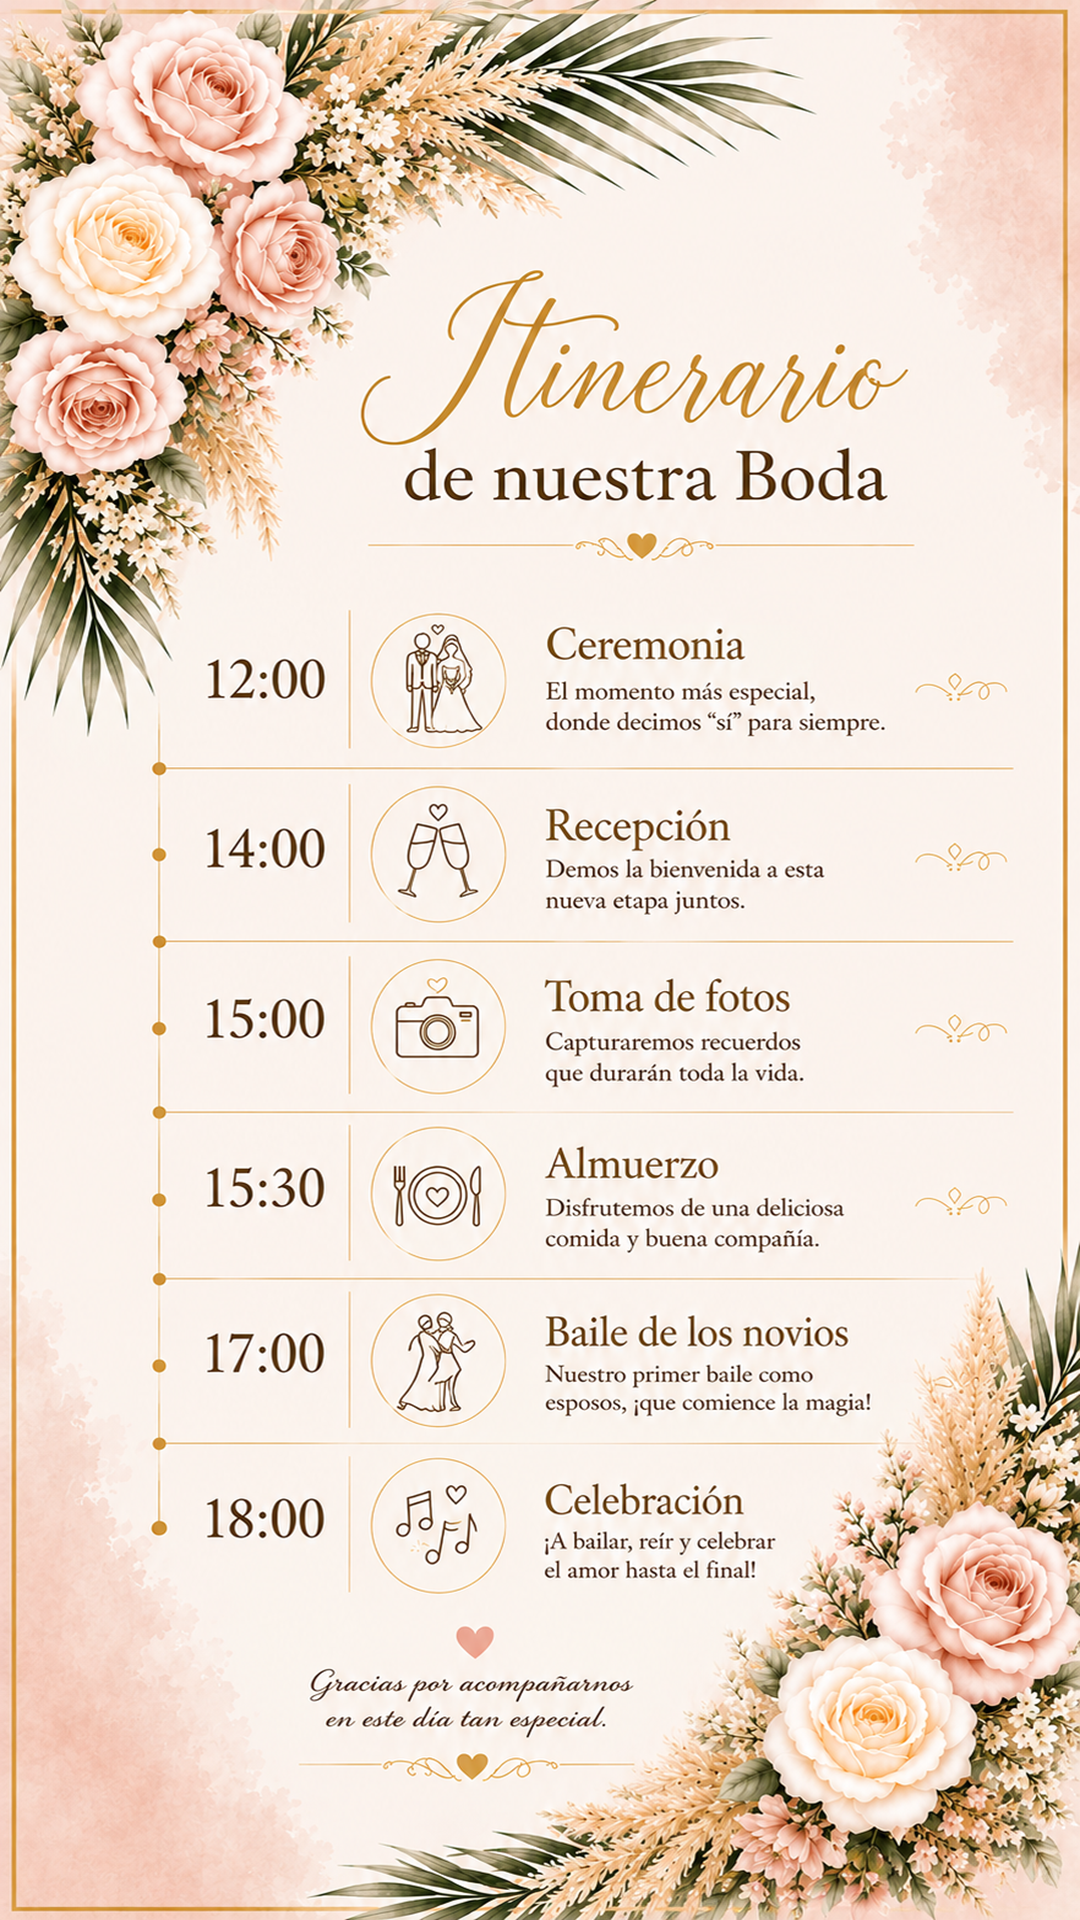
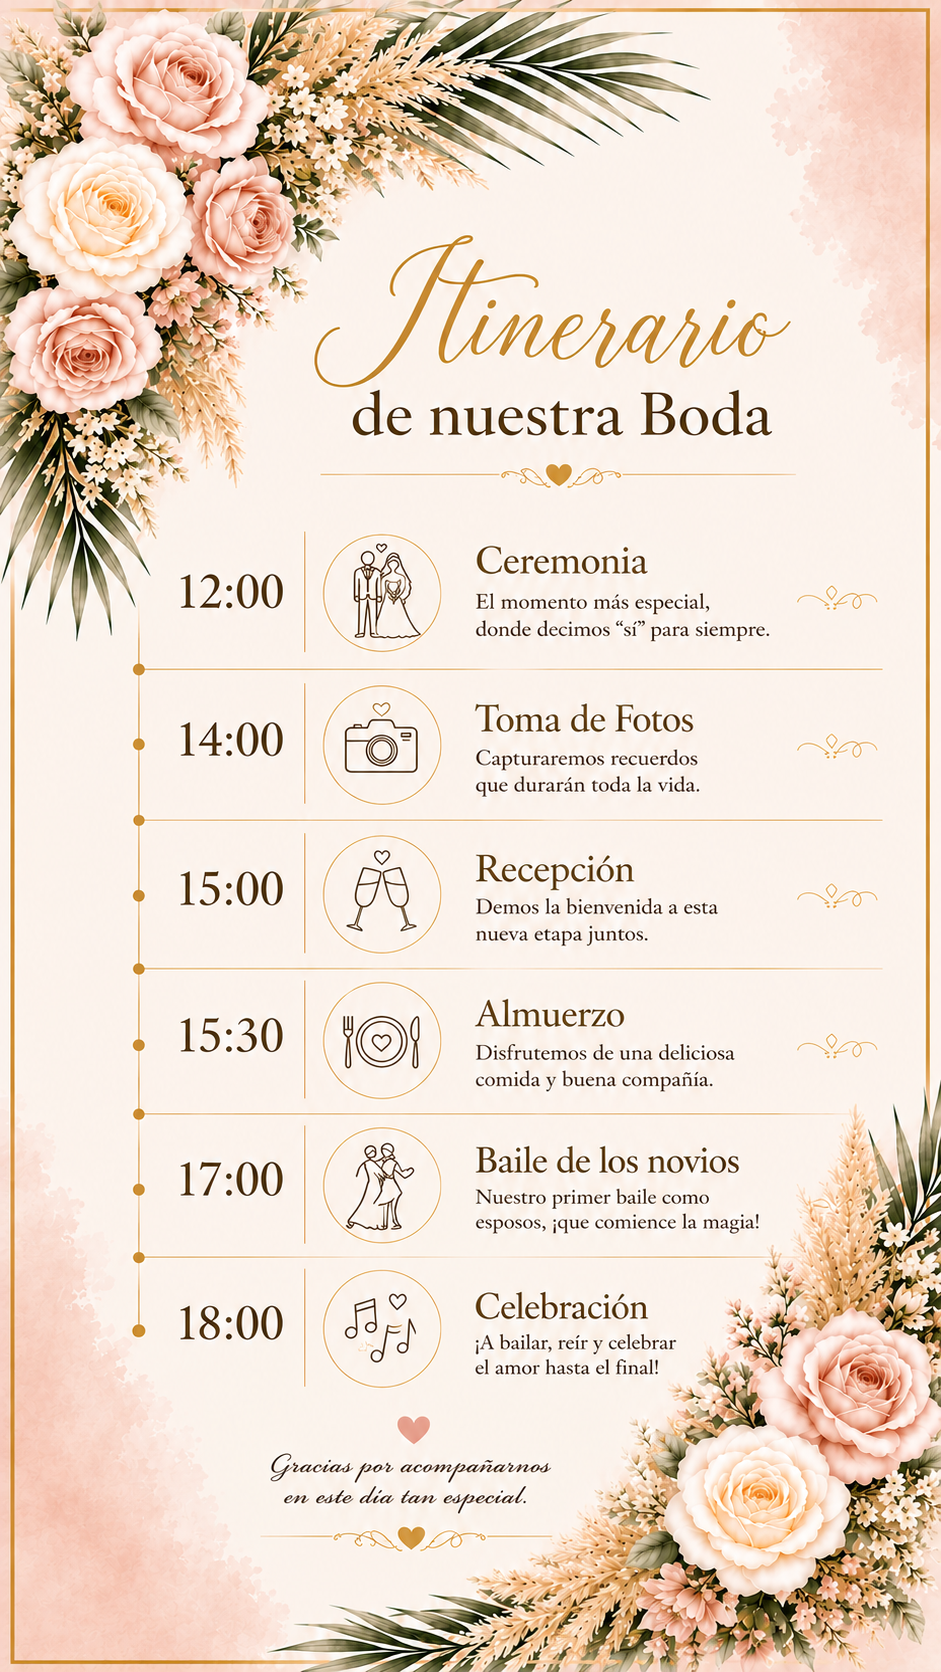
Actualizar invitacion y vista previa de WhatsApp

diff --git a/index.html b/index.html
@@ -5,6 +5,17 @@
     <meta name="viewport" content="width=device-width, initial-scale=1.0">
     <title>Samuel & Evelyn</title>
     <link rel="stylesheet" href="css/styles.css">
+
+    <!-- Vista previa al compartir la invitación -->
+    <meta property="og:type" content="website">
+    <meta property="og:title" content="Samuel &amp; Evelyn | Nuestra Boda">
+    <meta property="og:description" content="Nos encantaría compartir contigo uno de los días más especiales de nuestras vidas. 18 de diciembre de 2026.">
+    <meta property="og:url" content="https://samevy3110.github.io/boda-samuel-evelyn/">
+    <meta property="og:image" content="https://samevy3110.github.io/boda-samuel-evelyn/img/preview_whatsapp.jpg">
+    <meta property="og:image:type" content="image/jpeg">
+    <meta property="og:image:width" content="941">
+    <meta property="og:image:height" content="1672">
+
 </head>
 <body class="invitation-locked">
 

diff --git a/css/styles.css b/css/styles.css
@@ -577,38 +577,3 @@ body.invitation-unlocked {
     width: 100%;
     height: auto;
 }
-
-/* Versículo final - imagen 9 */
-.verse-page {
-    position: relative;
-}
-
-.verse-cover {
-    position: absolute;
-    top: 60%;
-    left: 50%;
-    transform: translateX(-50%);
-    width: 58%;
-    max-width: 620px;
-    text-align: center;
-    color: #6f4a43;
-    font-family: Georgia, "Times New Roman", serif;
-    line-height: 1.25;
-    z-index: 6;
-    text-shadow: 0 1px 2px rgba(255, 255, 255, 0.7);
-}
-
-.verse-cover strong {
-    display: block;
-    margin-bottom: 2px;
-    font-size: clamp(13px, 2.8vw, 22px);
-    font-weight: 600;
-    letter-spacing: 1px;
-}
-
-.verse-cover em {
-    display: block;
-    font-size: clamp(12px, 2.6vw, 20px);
-    font-style: italic;
-}
-
